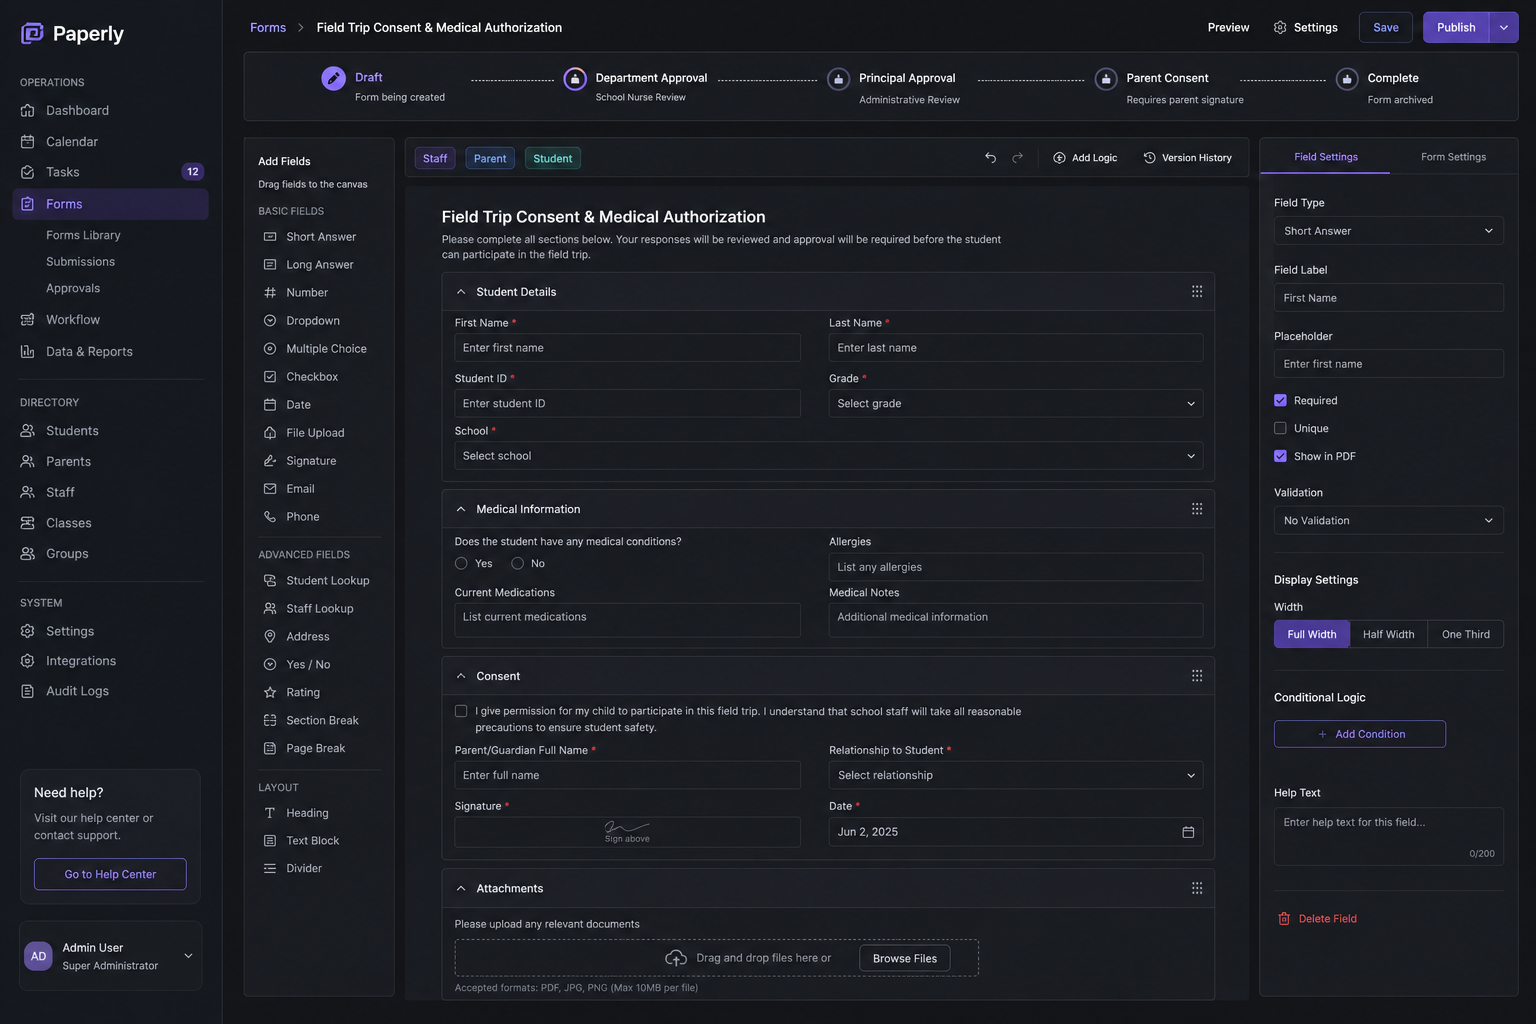
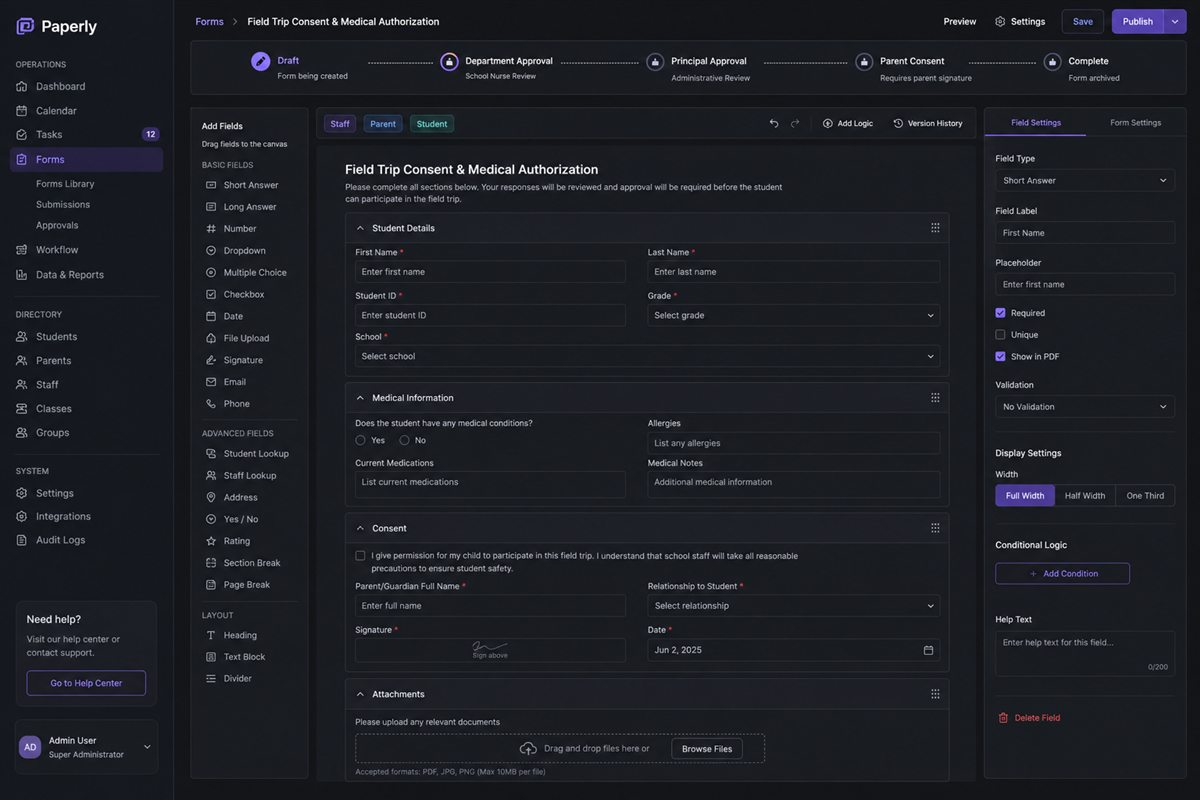
update case study of paperly

diff --git a/case-studies/paperly.html b/case-studies/paperly.html
@@ -40,14 +40,14 @@ a{color:var(--blue);text-decoration:none}
 .kicker{font-size:13px;font-weight:600;letter-spacing:.04em;text-transform:uppercase;background:var(--grad);-webkit-background-clip:text;background-clip:text;color:transparent;margin-bottom:12px}
 h1{font-family:var(--font-d);font-size:clamp(34px,6vw,52px);font-weight:600;line-height:1.07;letter-spacing:-.02em;margin-bottom:14px}
 .meta{font-size:14px;color:var(--muted);margin-bottom:20px}
-.hero-img,.shot-img{width:100%;height:auto;aspect-ratio:4/3;object-fit:cover;border-radius:18px;display:block;border:1px solid var(--line);background:var(--card)}
+.hero-img,.shot-img{width:100%;height:auto;aspect-ratio:3/2;object-fit:contain;border-radius:18px;display:block;border:1px solid var(--line);background:var(--card)}
 .hero-img{margin:20px 0 32px;box-shadow:0 0 40px rgba(139,92,246,.15)}
 .shot{margin:18px 0 8px}
 .shot-img{box-shadow:0 0 28px rgba(59,130,246,.12)}
 .shot-cap,.diagram-cap{font-size:13px;color:var(--dim);margin:8px 0 18px}
 .gallery{display:grid;grid-template-columns:repeat(2,1fr);gap:14px;margin:20px 0 8px}
 .gallery figure{margin:0}
-.gallery img{width:100%;height:auto;aspect-ratio:4/3;object-fit:cover;border-radius:14px;border:1px solid var(--line);display:block;background:var(--card)}
+.gallery img{width:100%;height:auto;aspect-ratio:3/2;object-fit:contain;border-radius:14px;border:1px solid var(--line);display:block;background:var(--card)}
 .gallery figcaption{font-size:12px;color:var(--dim);margin-top:8px}
 .section{margin:36px 0;padding-left:16px;border-left:2px solid transparent;border-image:var(--grad) 1}
 .section h2{font-family:var(--font-d);font-size:22px;font-weight:600;margin:0 0 10px;display:flex;align-items:center;gap:10px}
@@ -103,7 +103,7 @@ footer{border-top:1px solid var(--line);padding:24px 0 40px;font-size:12px;color
     <p class="kicker">Featured case study · 01 · EdTech · Australia · 2022–Present</p>
     <h1>Paperly — K-12 school operations at production scale</h1>
     <p class="meta">Senior Web Application Developer · July 2022 – Present · Remote (Perth team) · Laravel · Vue.js · MySQL · REST APIs</p>
-    <img class="hero-img" src="../projects/paperly-hero.jpg" alt="Paperly excursions operations dashboard with calendar, parent permissions and risk status" width="1200" height="900" loading="eager">
+    <img class="hero-img" src="../projects/paperly-hero.jpg" alt="Paperly excursions operations dashboard with calendar, parent permissions and risk status" width="1200" height="800" loading="eager">
 
     <div class="stats">
       <div class="stat"><b>4 yrs</b><span>Senior delivery on a live multi-school product</span></div>
@@ -125,22 +125,22 @@ footer{border-top:1px solid var(--line);padding:24px 0 40px;font-size:12px;color
 
     <section class="section" id="gallery">
       <h2><span class="n">02</span> Product visuals</h2>
-      <p>Illustrative 4:3 mockups based on the verified product capabilities and architecture. They use representative sample data rather than production school records.</p>
+      <p>Illustrative product mockups based on the verified capabilities and architecture. They use representative sample data rather than production school records.</p>
       <div class="gallery">
         <figure>
-          <img src="../projects/paperly-forms.jpg" alt="Paperly dynamic form builder and multi-stage approval workflow" width="800" height="600" loading="lazy">
+          <img src="../projects/paperly-forms.jpg" alt="Paperly dynamic form builder and multi-stage approval workflow" width="1200" height="800" loading="lazy">
           <figcaption>Dynamic forms — configurable fields, conditional logic and role-based approval stages</figcaption>
         </figure>
         <figure>
-          <img src="../projects/paperly-workflow.jpg" alt="Paperly excursion and parent permission workflow chart" width="800" height="600" loading="lazy">
+          <img src="../projects/paperly-workflow.jpg" alt="Paperly excursion and parent permission workflow chart" width="1200" height="800" loading="lazy">
           <figcaption>Excursion flow — staff setup, approvals, consent, tracking and follow-up</figcaption>
         </figure>
         <figure>
-          <img src="../projects/paperly-architecture.jpg" alt="Paperly modular Laravel and Vue system architecture" width="800" height="600" loading="lazy">
+          <img src="../projects/paperly-architecture.jpg" alt="Paperly modular Laravel and Vue system architecture" width="1200" height="800" loading="lazy">
           <figcaption>Architecture — role portals, modular application core, SIS, identity and notifications</figcaption>
         </figure>
         <figure>
-          <img src="../projects/paperly.jpg" alt="Earlier Paperly school operations dashboard concept" width="800" height="600" loading="lazy">
+          <img src="../projects/paperly.jpg" alt="Earlier Paperly school operations dashboard concept" width="1200" height="800" loading="lazy">
           <figcaption>Operations overview — calendars, forms and permission follow-up</figcaption>
         </figure>
       </div>
@@ -176,7 +176,7 @@ footer{border-top:1px solid var(--line);padding:24px 0 40px;font-size:12px;color
       <p>School operations were modelled as composable modules behind role portals: staff configure and approve; parents consent and submit; students participate where needed. Laravel services and repositories own domain rules; Vue.js surfaces handle dense calendars, forms and permission follow-up; REST APIs and SIS clients keep external data in sync.</p>
 
       <figure class="shot">
-        <img class="shot-img" src="../projects/paperly-forms.jpg" alt="Paperly form builder with approval workflow configuration" width="1200" height="900" loading="lazy">
+        <img class="shot-img" src="../projects/paperly-forms.jpg" alt="Paperly form builder with approval workflow configuration" width="1200" height="800" loading="lazy">
         <figcaption class="shot-cap">Illustrative form-building surface — flexible field layouts, medical details, consent and a visible approval path.</figcaption>
       </figure>
 
@@ -220,7 +220,7 @@ footer{border-top:1px solid var(--line);padding:24px 0 40px;font-size:12px;color
       <p class="diagram-cap">Typical excursion path: staff configure → internal approvals → parent digital consent → permission tracking → operational calendar.</p>
 
       <figure class="shot">
-        <img class="shot-img" src="../projects/paperly-workflow.jpg" alt="Paperly end-to-end excursion workflow capability chart" width="1200" height="900" loading="lazy">
+        <img class="shot-img" src="../projects/paperly-workflow.jpg" alt="Paperly end-to-end excursion workflow capability chart" width="1200" height="800" loading="lazy">
         <figcaption class="shot-cap">Capability chart showing the operational flow and supporting risk, medical, notification and geolocation concerns.</figcaption>
       </figure>
 
@@ -240,7 +240,7 @@ footer{border-top:1px solid var(--line);padding:24px 0 40px;font-size:12px;color
       <p>Paperly is organised as convention-based modules (controllers, models, services, repositories and role-scoped routes per domain). Clients hit role portals; Laravel owns business logic; MySQL persists school data; SIS and identity clients keep external systems aligned.</p>
 
       <figure class="shot">
-        <img class="shot-img" src="../projects/paperly-architecture.jpg" alt="Paperly role portals and modular application architecture" width="1200" height="900" loading="lazy">
+        <img class="shot-img" src="../projects/paperly-architecture.jpg" alt="Paperly role portals and modular application architecture" width="1200" height="800" loading="lazy">
         <figcaption class="shot-cap">Architecture overview — four role surfaces, a modular Laravel/Vue core, and isolated integration responsibilities.</figcaption>
       </figure>
 
